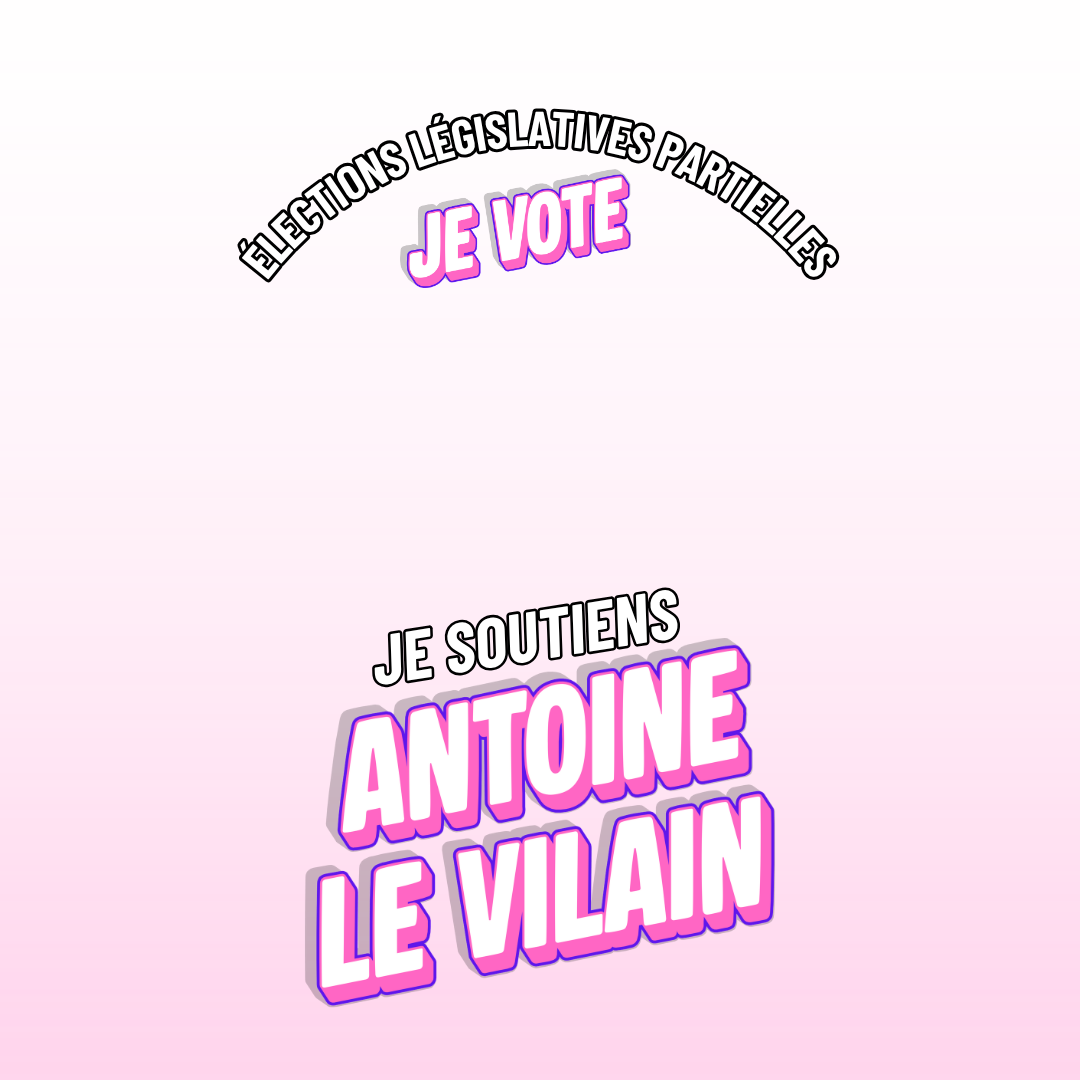
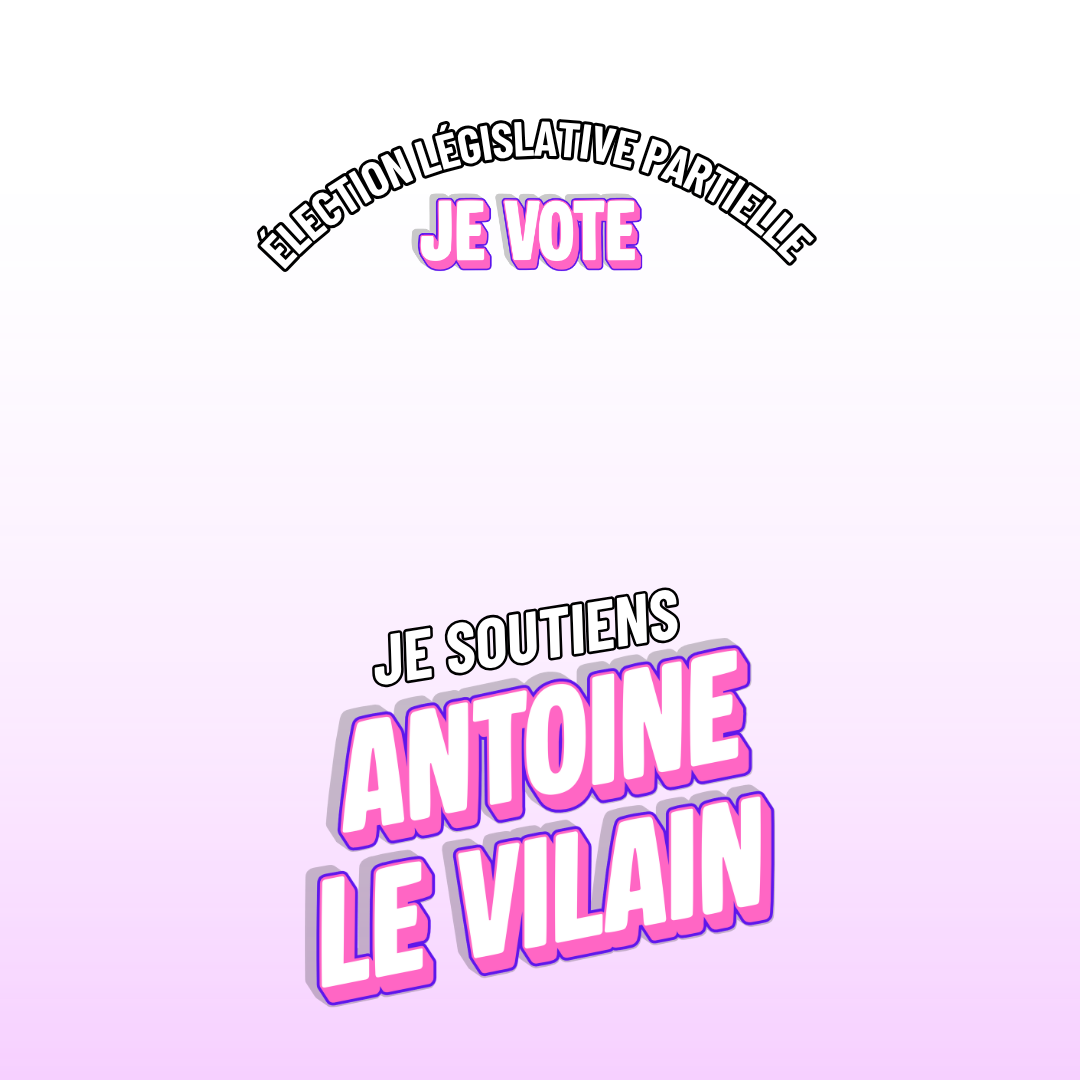
Add files via upload

Changed region(s): [[0.2139, 0.0917, 0.7944, 0.275]]

diff --git a/index.html b/index.html
@@ -6,7 +6,7 @@
   <meta name="theme-color" content="#c9409d">
   <meta name="description" content="Créez votre photo de soutien personnalisée.">
   <title>Créez votre photo de soutien</title>
-  <link rel="stylesheet" href="./css/style.css?v=15">
+  <link rel="stylesheet" href="./css/style.css?v=17">
 </head>
 <body class="landing-page">
   <div id="fb-root"></div>
@@ -20,7 +20,7 @@
         <h1 id="heroTitle"><span>Créez votre</span><span>photo de soutien</span></h1>
 
         <p class="lead">
-          Affichez fièrement votre soutien à Antoine Le Vilain avec un visuel élégant, positif et prêt à partager.
+          Affichez fièrement votre soutien à <strong>Antoine Le Vilain</strong> avec un visuel élégant, positif et prêt à partager.
           Importez votre photo, personnalisez-la en quelques instants et faites rayonner votre engagement sur tous vos réseaux.
         </p>
       </div>
@@ -174,10 +174,10 @@
     </div>
   </footer>
 
-  <script src="./js/config.js?v=15"></script>
-  <script src="./js/editor.js?v=15"></script>
-  <script src="./js/facebook.js?v=15"></script>
-  <script src="./js/share.js?v=15"></script>
-  <script src="./js/app.js?v=15"></script>
+  <script src="./js/config.js?v=17"></script>
+  <script src="./js/editor.js?v=17"></script>
+  <script src="./js/facebook.js?v=17"></script>
+  <script src="./js/share.js?v=17"></script>
+  <script src="./js/app.js?v=17"></script>
 </body>
 </html>

diff --git a/css/style.css b/css/style.css
@@ -1017,3 +1017,31 @@ h1 > span { display: block; white-space: nowrap; }
 
   .social-links { gap: 20px; }
 }
+
+/* V17 desktop validation patch */
+.lead strong {
+  font-weight: 800;
+  color: #fff;
+}
+
+@media (min-width: 701px) {
+  .top-stage {
+    min-height: 900px;
+  }
+
+  .source-card {
+    top: 470px;
+    bottom: auto;
+  }
+
+  .site-footer {
+    margin-top: 20px;
+    min-height: 130px;
+    background: linear-gradient(180deg, rgba(200, 63, 199, 0) 0%, rgba(181, 51, 149, 0.10) 100%);
+  }
+
+  .footer-inner {
+    padding-top: 24px;
+    padding-bottom: 28px;
+  }
+}

diff --git a/README-V17.md b/README-V17.md
@@ -1,0 +1,7 @@
+# V17
+
+- Carte blanche desktop remontée pour arriver directement après le texte.
+- Espace supplémentaire ajouté entre la carte et le footer « Suivre Antoine ».
+- Nom **Antoine Le Vilain** mis en gras dans le texte.
+- Overlay de génération photo remplacé par le nouveau bandeau fourni.
+- Version mobile laissée en l'état pour reprise ultérieure, conformément à la dernière demande.
